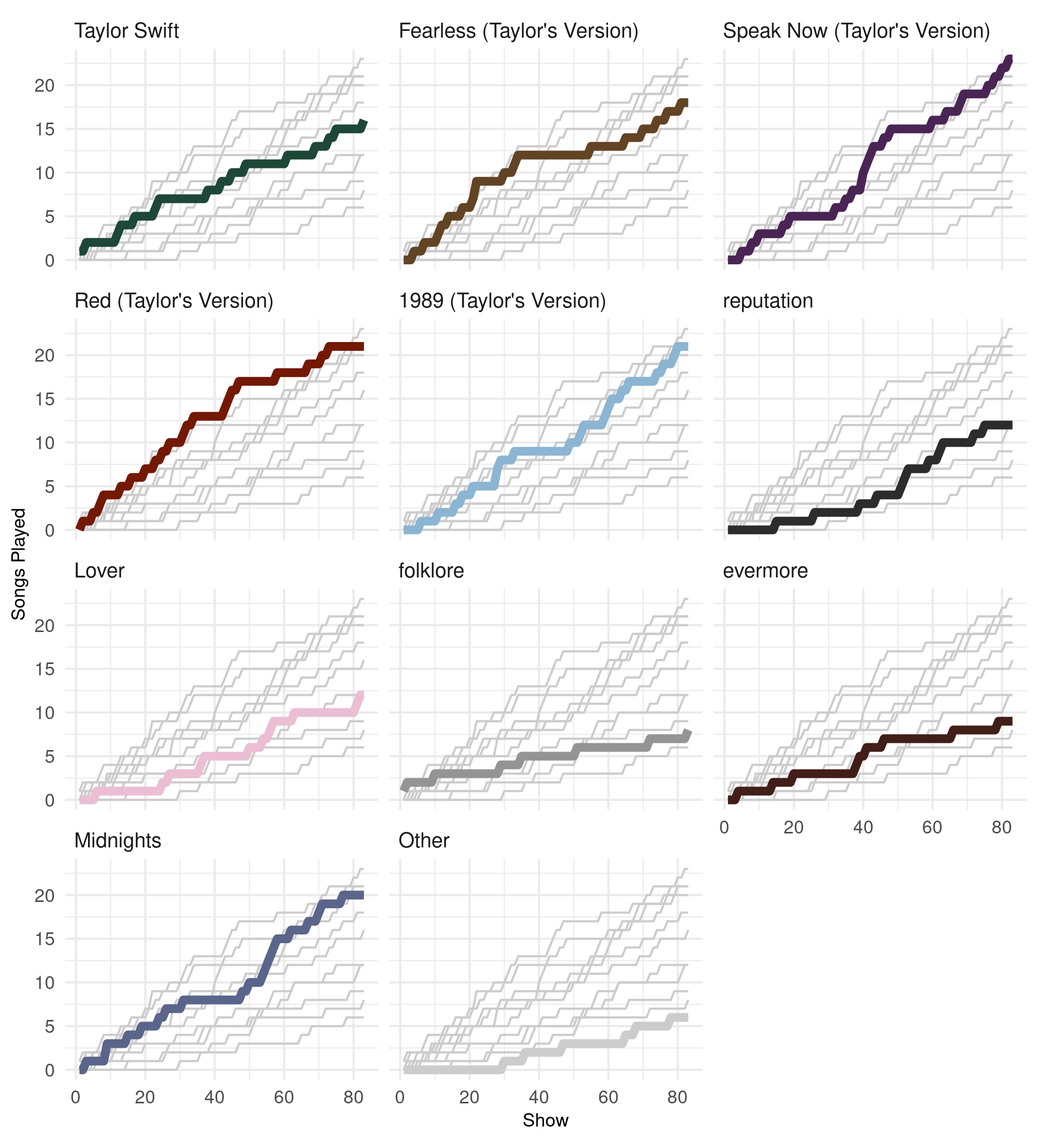
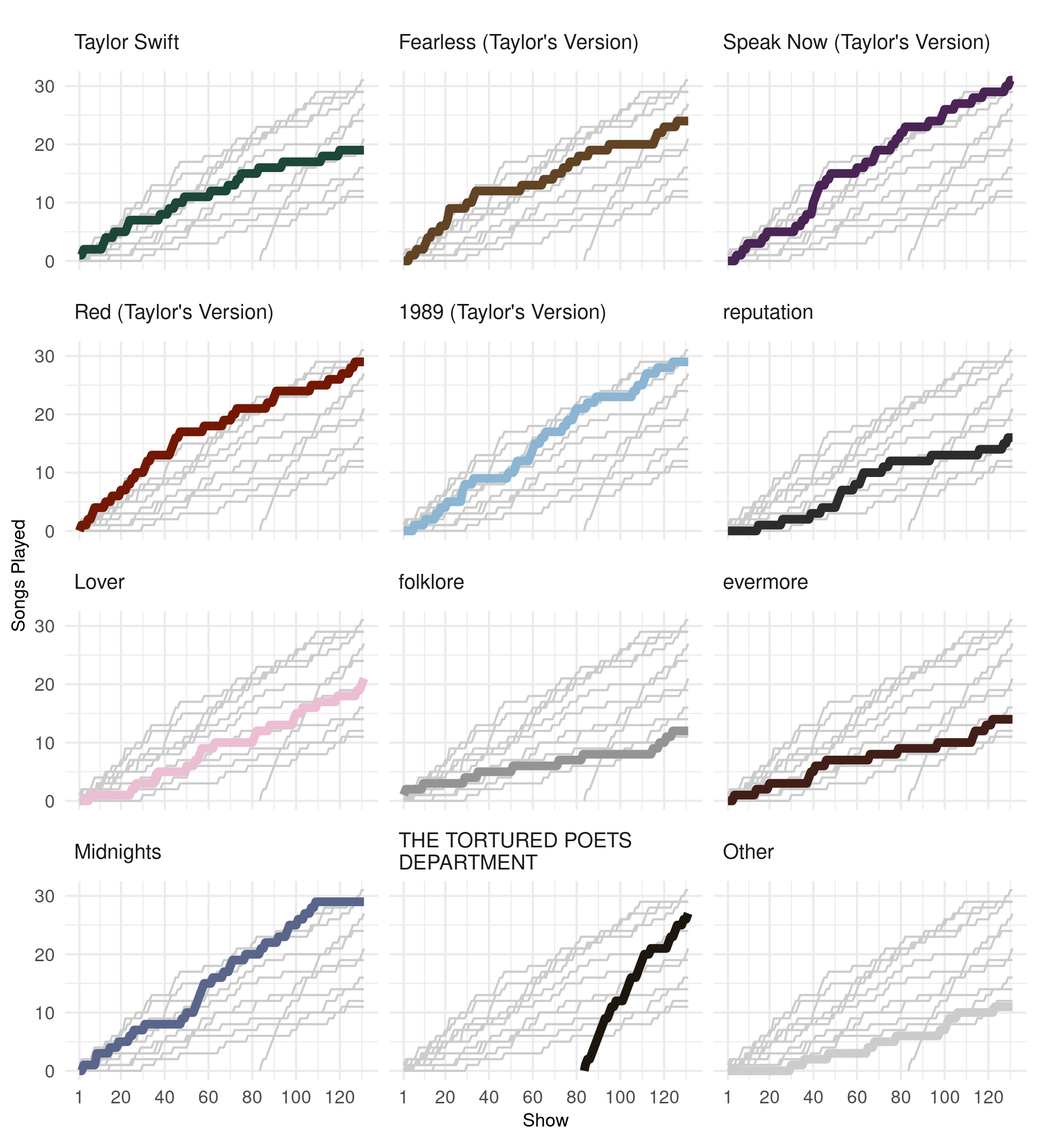
Deploying to gh-pages from @ wjakethompson/taylor@10f4a2b798cae86196019adc110b168211de15b0 🚀

diff --git a/dev/articles/taylor.html b/dev/articles/taylor.html
@@ -197,7 +197,7 @@ also includes information on any additional songs that were performed as
 mashups and guests that Taylor brought out for a performance.</p>
 <div class="sourceCode" id="cb4"><pre class="downlit sourceCode r">
 <code class="sourceCode R"><span><span class="va">eras_tour_surprise</span></span>
-<span><span class="co">#&gt; <span style="color: #949494;"># A tibble: 166 × 9</span></span></span>
+<span><span class="co">#&gt; <span style="color: #949494;"># A tibble: 262 × 9</span></span></span>
 <span><span class="co">#&gt;    leg                date       city  night dress instrument song  mashup guest</span></span>
 <span><span class="co">#&gt;    <span style="color: #949494; font-style: italic;">&lt;chr&gt;</span>              <span style="color: #949494; font-style: italic;">&lt;date&gt;</span>     <span style="color: #949494; font-style: italic;">&lt;chr&gt;</span> <span style="color: #949494; font-style: italic;">&lt;int&gt;</span> <span style="color: #949494; font-style: italic;">&lt;chr&gt;</span> <span style="color: #949494; font-style: italic;">&lt;chr&gt;</span>      <span style="color: #949494; font-style: italic;">&lt;chr&gt;</span> <span style="color: #949494; font-style: italic;">&lt;chr&gt;</span>  <span style="color: #949494; font-style: italic;">&lt;chr&gt;</span></span></span>
 <span><span class="co">#&gt; <span style="color: #BCBCBC;"> 1</span> North America (Le… 2023-03-17 Glen…     1 red   guitar     mirr… <span style="color: #BB0000;">NA</span>     <span style="color: #BB0000;">NA</span>   </span></span>
@@ -210,7 +210,7 @@ mashups and guests that Taylor brought out for a performance.</p>
 <span><span class="co">#&gt; <span style="color: #BCBCBC;"> 8</span> North America (Le… 2023-03-25 Las …     2 green piano      Whit… <span style="color: #BB0000;">NA</span>     <span style="color: #BB0000;">NA</span>   </span></span>
 <span><span class="co">#&gt; <span style="color: #BCBCBC;"> 9</span> North America (Le… 2023-03-31 Arli…     1 green guitar     Sad … <span style="color: #BB0000;">NA</span>     <span style="color: #BB0000;">NA</span>   </span></span>
 <span><span class="co">#&gt; <span style="color: #BCBCBC;">10</span> North America (Le… 2023-03-31 Arli…     1 green piano      Ours… <span style="color: #BB0000;">NA</span>     <span style="color: #BB0000;">NA</span>   </span></span>
-<span><span class="co">#&gt; <span style="color: #949494;"># ℹ 156 more rows</span></span></span></code></pre></div>
+<span><span class="co">#&gt; <span style="color: #949494;"># ℹ 252 more rows</span></span></span></code></pre></div>
 </div>
 <div class="section level2">
 <h2 id="just-another-picture-to-burn">Just another picture to burn<a class="anchor" aria-label="anchor" href="#just-another-picture-to-burn"></a>
@@ -267,13 +267,16 @@ Plot code
 <span><span class="kw"><a href="https://rdrr.io/r/base/library.html" class="external-link">library</a></span><span class="op">(</span><span class="va"><a href="https://tidyr.tidyverse.org" class="external-link">tidyr</a></span><span class="op">)</span></span>
 <span><span class="kw"><a href="https://rdrr.io/r/base/library.html" class="external-link">library</a></span><span class="op">(</span><span class="va"><a href="https://ggplot2.tidyverse.org" class="external-link">ggplot2</a></span><span class="op">)</span></span>
 <span></span>
+<span><span class="va">leg_labels</span> <span class="op">&lt;-</span> <span class="fu"><a href="https://rdrr.io/r/base/unique.html" class="external-link">unique</a></span><span class="op">(</span><span class="va">eras_tour_surprise</span><span class="op">$</span><span class="va">leg</span><span class="op">)</span></span>
+<span><span class="va">leg_labels</span> <span class="op">&lt;-</span> <span class="fu"><a href="https://rdrr.io/r/base/grep.html" class="external-link">gsub</a></span><span class="op">(</span><span class="st">"America \\(Leg 1\\)"</span>, <span class="st">"America\n(Leg 1)"</span>, <span class="va">leg_labels</span><span class="op">)</span></span>
+<span><span class="va">leg_labels</span> <span class="op">&lt;-</span> <span class="fu"><a href="https://rdrr.io/r/base/grep.html" class="external-link">gsub</a></span><span class="op">(</span><span class="st">"South America"</span>, <span class="st">"South\nAmerica"</span>, <span class="va">leg_labels</span><span class="op">)</span></span>
+<span><span class="va">leg_labels</span> <span class="op">&lt;-</span> <span class="fu"><a href="https://rdrr.io/r/base/grep.html" class="external-link">gsub</a></span><span class="op">(</span><span class="st">"Asia-Pacific"</span>, <span class="st">"Asia-\nPacific"</span>, <span class="va">leg_labels</span><span class="op">)</span></span>
+<span></span>
 <span><span class="va">surprise_song_count</span> <span class="op">&lt;-</span> <span class="va">eras_tour_surprise</span> <span class="op"><a href="https://magrittr.tidyverse.org/reference/pipe.html" class="external-link">%&gt;%</a></span></span>
 <span>  <span class="fu"><a href="https://tidyr.tidyverse.org/reference/nest.html" class="external-link">nest</a></span><span class="op">(</span>dat <span class="op">=</span> <span class="op">-</span><span class="fu"><a href="https://rdrr.io/r/base/c.html" class="external-link">c</a></span><span class="op">(</span><span class="va">leg</span>, <span class="va">date</span>, <span class="va">city</span>, <span class="va">night</span><span class="op">)</span><span class="op">)</span> <span class="op"><a href="https://magrittr.tidyverse.org/reference/pipe.html" class="external-link">%&gt;%</a></span></span>
 <span>  <span class="fu"><a href="https://dplyr.tidyverse.org/reference/arrange.html" class="external-link">arrange</a></span><span class="op">(</span><span class="va">date</span><span class="op">)</span> <span class="op"><a href="https://magrittr.tidyverse.org/reference/pipe.html" class="external-link">%&gt;%</a></span></span>
 <span>  <span class="fu"><a href="https://dplyr.tidyverse.org/reference/mutate.html" class="external-link">mutate</a></span><span class="op">(</span>leg <span class="op">=</span> <span class="fu"><a href="https://rdrr.io/r/base/factor.html" class="external-link">factor</a></span><span class="op">(</span><span class="va">leg</span>, levels <span class="op">=</span> <span class="fu"><a href="https://rdrr.io/r/base/unique.html" class="external-link">unique</a></span><span class="op">(</span><span class="va">eras_tour_surprise</span><span class="op">$</span><span class="va">leg</span><span class="op">)</span>,</span>
-<span>                      labels <span class="op">=</span> <span class="fu"><a href="https://rdrr.io/r/base/c.html" class="external-link">c</a></span><span class="op">(</span><span class="st">"North America\n(Leg 1)"</span>,</span>
-<span>                                 <span class="st">"South\nAmerica"</span>,</span>
-<span>                                 <span class="st">"Asia-Pacific"</span><span class="op">)</span><span class="op">)</span><span class="op">)</span> <span class="op"><a href="https://magrittr.tidyverse.org/reference/pipe.html" class="external-link">%&gt;%</a></span></span>
+<span>                      labels <span class="op">=</span> <span class="va">leg_labels</span><span class="op">)</span><span class="op">)</span> <span class="op"><a href="https://magrittr.tidyverse.org/reference/pipe.html" class="external-link">%&gt;%</a></span></span>
 <span>  <span class="fu"><a href="https://dplyr.tidyverse.org/reference/mutate.html" class="external-link">mutate</a></span><span class="op">(</span>show_number <span class="op">=</span> <span class="fu"><a href="https://rdrr.io/r/base/seq.html" class="external-link">seq_len</a></span><span class="op">(</span><span class="fu"><a href="https://dplyr.tidyverse.org/reference/context.html" class="external-link">n</a></span><span class="op">(</span><span class="op">)</span><span class="op">)</span>, .after <span class="op">=</span> <span class="va">night</span><span class="op">)</span> <span class="op"><a href="https://magrittr.tidyverse.org/reference/pipe.html" class="external-link">%&gt;%</a></span></span>
 <span>  <span class="fu"><a href="https://tidyr.tidyverse.org/reference/unnest.html" class="external-link">unnest</a></span><span class="op">(</span><span class="va">dat</span><span class="op">)</span> <span class="op"><a href="https://magrittr.tidyverse.org/reference/pipe.html" class="external-link">%&gt;%</a></span></span>
 <span>  <span class="fu"><a href="https://dplyr.tidyverse.org/reference/mutate-joins.html" class="external-link">left_join</a></span><span class="op">(</span><span class="fu"><a href="https://dplyr.tidyverse.org/reference/distinct.html" class="external-link">distinct</a></span><span class="op">(</span><span class="va">taylor_album_songs</span>, <span class="va">track_name</span>, <span class="va">album_name</span><span class="op">)</span>,</span>
@@ -284,18 +287,31 @@ Plot code
 <span>  <span class="fu"><a href="https://dplyr.tidyverse.org/reference/mutate.html" class="external-link">mutate</a></span><span class="op">(</span>n <span class="op">=</span> <span class="fu"><a href="https://tidyr.tidyverse.org/reference/replace_na.html" class="external-link">replace_na</a></span><span class="op">(</span><span class="va">n</span>, <span class="fl">0</span><span class="op">)</span><span class="op">)</span> <span class="op"><a href="https://magrittr.tidyverse.org/reference/pipe.html" class="external-link">%&gt;%</a></span></span>
 <span>  <span class="fu"><a href="https://dplyr.tidyverse.org/reference/arrange.html" class="external-link">arrange</a></span><span class="op">(</span><span class="va">album_name</span>, <span class="va">date</span>, <span class="va">night</span><span class="op">)</span> <span class="op"><a href="https://magrittr.tidyverse.org/reference/pipe.html" class="external-link">%&gt;%</a></span></span>
 <span>  <span class="fu"><a href="https://dplyr.tidyverse.org/reference/mutate.html" class="external-link">mutate</a></span><span class="op">(</span>surprise_count <span class="op">=</span> <span class="fu"><a href="https://rdrr.io/r/base/cumsum.html" class="external-link">cumsum</a></span><span class="op">(</span><span class="va">n</span><span class="op">)</span>, .by <span class="op">=</span> <span class="va">album_name</span><span class="op">)</span> <span class="op"><a href="https://magrittr.tidyverse.org/reference/pipe.html" class="external-link">%&gt;%</a></span></span>
+<span>  <span class="fu"><a href="https://dplyr.tidyverse.org/reference/mutate-joins.html" class="external-link">left_join</a></span><span class="op">(</span><span class="fu"><a href="https://dplyr.tidyverse.org/reference/select.html" class="external-link">select</a></span><span class="op">(</span><span class="va">taylor_albums</span>, <span class="va">album_name</span>, <span class="va">album_release</span><span class="op">)</span>,</span>
+<span>            by <span class="op">=</span> <span class="st">"album_name"</span><span class="op">)</span> <span class="op"><a href="https://magrittr.tidyverse.org/reference/pipe.html" class="external-link">%&gt;%</a></span></span>
+<span>  <span class="fu"><a href="https://dplyr.tidyverse.org/reference/mutate.html" class="external-link">mutate</a></span><span class="op">(</span>surprise_count <span class="op">=</span> <span class="fu"><a href="https://dplyr.tidyverse.org/reference/case_when.html" class="external-link">case_when</a></span><span class="op">(</span></span>
+<span>    <span class="va">album_name</span> <span class="op">==</span> <span class="st">"THE TORTURED POETS DEPARTMENT"</span> <span class="op">&amp;</span></span>
+<span>      <span class="va">date</span> <span class="op">&lt;</span> <span class="va">album_release</span> <span class="op">~</span> <span class="cn">NA_integer_</span>,</span>
+<span>    .default <span class="op">=</span> <span class="va">surprise_count</span></span>
+<span>  <span class="op">)</span><span class="op">)</span> <span class="op"><a href="https://magrittr.tidyverse.org/reference/pipe.html" class="external-link">%&gt;%</a></span></span>
+<span>  <span class="fu"><a href="https://tibble.tidyverse.org/reference/add_row.html" class="external-link">add_row</a></span><span class="op">(</span>leg <span class="op">=</span> <span class="fu"><a href="https://rdrr.io/r/base/factor.html" class="external-link">factor</a></span><span class="op">(</span><span class="st">"Europe"</span><span class="op">)</span>, album_name <span class="op">=</span> <span class="st">"THE TORTURED POETS DEPARTMENT"</span>,</span>
+<span>          show_number <span class="op">=</span> <span class="fl">83.5</span>, surprise_count <span class="op">=</span> <span class="fl">0L</span><span class="op">)</span> <span class="op"><a href="https://magrittr.tidyverse.org/reference/pipe.html" class="external-link">%&gt;%</a></span></span>
 <span>  <span class="fu"><a href="https://dplyr.tidyverse.org/reference/mutate.html" class="external-link">mutate</a></span><span class="op">(</span>album_name <span class="op">=</span> <span class="fu"><a href="https://tidyr.tidyverse.org/reference/replace_na.html" class="external-link">replace_na</a></span><span class="op">(</span><span class="va">album_name</span>, <span class="st">"Other"</span><span class="op">)</span>,</span>
-<span>         album_name <span class="op">=</span> <span class="fu"><a href="https://rdrr.io/r/base/factor.html" class="external-link">factor</a></span><span class="op">(</span><span class="va">album_name</span>, <span class="fu"><a href="https://rdrr.io/r/base/c.html" class="external-link">c</a></span><span class="op">(</span><span class="va">album_levels</span>, <span class="st">"Other"</span><span class="op">)</span><span class="op">)</span>,</span>
-<span>         album_group <span class="op">=</span> <span class="va">album_name</span><span class="op">)</span></span>
+<span>         album_group <span class="op">=</span> <span class="va">album_name</span>,</span>
+<span>         album_name <span class="op">=</span> <span class="fu"><a href="https://rdrr.io/r/base/factor.html" class="external-link">factor</a></span><span class="op">(</span><span class="va">album_name</span>, <span class="fu"><a href="https://rdrr.io/r/base/c.html" class="external-link">c</a></span><span class="op">(</span><span class="va">album_levels</span>, <span class="st">"Other"</span><span class="op">)</span>,</span>
+<span>                             labels <span class="op">=</span> <span class="fu"><a href="https://rdrr.io/r/base/c.html" class="external-link">c</a></span><span class="op">(</span><span class="fu"><a href="https://rdrr.io/r/base/grep.html" class="external-link">gsub</a></span><span class="op">(</span><span class="st">"POETS DEPARTMENT"</span>,</span>
+<span>                                             <span class="st">"POETS\nDEPARTMENT"</span>,</span>
+<span>                                             <span class="va">album_levels</span><span class="op">)</span>, <span class="st">"Other"</span><span class="op">)</span><span class="op">)</span><span class="op">)</span></span>
 <span></span>
 <span><span class="fu"><a href="https://ggplot2.tidyverse.org/reference/ggplot.html" class="external-link">ggplot</a></span><span class="op">(</span><span class="va">surprise_song_count</span><span class="op">)</span> <span class="op">+</span></span>
 <span>  <span class="fu"><a href="https://ggplot2.tidyverse.org/reference/facet_wrap.html" class="external-link">facet_wrap</a></span><span class="op">(</span><span class="op">~</span> <span class="va">album_name</span>, ncol <span class="op">=</span> <span class="fl">3</span><span class="op">)</span> <span class="op">+</span></span>
 <span>  <span class="fu"><a href="https://ggplot2.tidyverse.org/reference/geom_path.html" class="external-link">geom_line</a></span><span class="op">(</span>data <span class="op">=</span> <span class="op">~</span><span class="fu"><a href="https://dplyr.tidyverse.org/reference/select.html" class="external-link">select</a></span><span class="op">(</span><span class="va">.x</span>, <span class="op">-</span><span class="va">album_name</span><span class="op">)</span>,</span>
 <span>            <span class="fu"><a href="https://ggplot2.tidyverse.org/reference/aes.html" class="external-link">aes</a></span><span class="op">(</span>x <span class="op">=</span> <span class="va">show_number</span>, y <span class="op">=</span> <span class="va">surprise_count</span>, group <span class="op">=</span> <span class="va">album_group</span><span class="op">)</span>,</span>
 <span>            color <span class="op">=</span> <span class="st">"grey80"</span>, na.rm <span class="op">=</span> <span class="cn">TRUE</span><span class="op">)</span> <span class="op">+</span></span>
-<span>  <span class="fu"><a href="https://ggplot2.tidyverse.org/reference/geom_path.html" class="external-link">geom_line</a></span><span class="op">(</span><span class="fu"><a href="https://ggplot2.tidyverse.org/reference/aes.html" class="external-link">aes</a></span><span class="op">(</span>x <span class="op">=</span> <span class="va">show_number</span>, y <span class="op">=</span> <span class="va">surprise_count</span>, color <span class="op">=</span> <span class="va">album_name</span><span class="op">)</span>,</span>
+<span>  <span class="fu"><a href="https://ggplot2.tidyverse.org/reference/geom_path.html" class="external-link">geom_line</a></span><span class="op">(</span><span class="fu"><a href="https://ggplot2.tidyverse.org/reference/aes.html" class="external-link">aes</a></span><span class="op">(</span>x <span class="op">=</span> <span class="va">show_number</span>, y <span class="op">=</span> <span class="va">surprise_count</span>, color <span class="op">=</span> <span class="va">album_group</span><span class="op">)</span>,</span>
 <span>            show.legend <span class="op">=</span> <span class="cn">FALSE</span>, linewidth <span class="op">=</span> <span class="fl">2</span>, na.rm <span class="op">=</span> <span class="cn">TRUE</span><span class="op">)</span> <span class="op">+</span></span>
 <span>  <span class="fu"><a href="../reference/scale_albums.html">scale_color_albums</a></span><span class="op">(</span>na.value <span class="op">=</span> <span class="st">"grey80"</span><span class="op">)</span> <span class="op">+</span></span>
+<span>  <span class="fu"><a href="https://ggplot2.tidyverse.org/reference/scale_continuous.html" class="external-link">scale_x_continuous</a></span><span class="op">(</span>breaks <span class="op">=</span> <span class="fu"><a href="https://rdrr.io/r/base/c.html" class="external-link">c</a></span><span class="op">(</span><span class="fl">1</span>, <span class="fu"><a href="https://rdrr.io/r/base/seq.html" class="external-link">seq</a></span><span class="op">(</span><span class="fl">20</span>, <span class="fl">500</span>, <span class="fl">20</span><span class="op">)</span><span class="op">)</span><span class="op">)</span> <span class="op">+</span></span>
 <span>  <span class="fu"><a href="https://ggplot2.tidyverse.org/reference/labs.html" class="external-link">labs</a></span><span class="op">(</span>x <span class="op">=</span> <span class="st">"Show"</span>, y <span class="op">=</span> <span class="st">"Songs Played"</span><span class="op">)</span> <span class="op">+</span></span>
 <span>  <span class="fu"><a href="https://ggplot2.tidyverse.org/reference/ggtheme.html" class="external-link">theme_minimal</a></span><span class="op">(</span><span class="op">)</span> <span class="op">+</span></span>
 <span>  <span class="fu"><a href="https://ggplot2.tidyverse.org/reference/theme.html" class="external-link">theme</a></span><span class="op">(</span>strip.text.x <span class="op">=</span> <span class="fu"><a href="https://ggplot2.tidyverse.org/reference/element.html" class="external-link">element_text</a></span><span class="op">(</span>hjust <span class="op">=</span> <span class="fl">0</span>, size <span class="op">=</span> <span class="fl">10</span><span class="op">)</span>,</span>
@@ -312,7 +328,8 @@ see <code><a href="../articles/plotting.html">vignette("plotting")</a></code>.</
 Plot code
 </summary><div class="sourceCode" id="cb8"><pre class="downlit sourceCode r">
 <code class="sourceCode R"><span><span class="va">missing_firsts</span> <span class="op">&lt;-</span> <span class="fu"><a href="https://tibble.tidyverse.org/reference/tibble.html" class="external-link">tibble</a></span><span class="op">(</span>date <span class="op">=</span> <span class="fu"><a href="https://rdrr.io/r/base/as.Date.html" class="external-link">as.Date</a></span><span class="op">(</span><span class="fu"><a href="https://rdrr.io/r/base/c.html" class="external-link">c</a></span><span class="op">(</span><span class="st">"2023-11-01"</span>,</span>
-<span>                                          <span class="st">"2024-02-01"</span><span class="op">)</span><span class="op">)</span><span class="op">)</span></span>
+<span>                                          <span class="st">"2024-02-01"</span>,</span>
+<span>                                          <span class="st">"2024-05-01"</span><span class="op">)</span><span class="op">)</span><span class="op">)</span></span>
 <span><span class="va">day_ones</span> <span class="op">&lt;-</span> <span class="va">surprise_song_count</span> <span class="op"><a href="https://magrittr.tidyverse.org/reference/pipe.html" class="external-link">%&gt;%</a></span></span>
 <span>  <span class="fu"><a href="https://dplyr.tidyverse.org/reference/slice.html" class="external-link">slice_min</a></span><span class="op">(</span><span class="va">date</span>, by <span class="op">=</span> <span class="fu"><a href="https://rdrr.io/r/base/c.html" class="external-link">c</a></span><span class="op">(</span><span class="va">leg</span>, <span class="va">album_name</span><span class="op">)</span><span class="op">)</span> <span class="op"><a href="https://magrittr.tidyverse.org/reference/pipe.html" class="external-link">%&gt;%</a></span></span>
 <span>  <span class="fu"><a href="https://dplyr.tidyverse.org/reference/select.html" class="external-link">select</a></span><span class="op">(</span><span class="va">leg</span>, <span class="va">date</span>, <span class="va">album_name</span><span class="op">)</span> <span class="op"><a href="https://magrittr.tidyverse.org/reference/pipe.html" class="external-link">%&gt;%</a></span></span>
@@ -332,9 +349,9 @@ Plot code
 <span>            color <span class="op">=</span> <span class="st">"grey80"</span>, na.rm <span class="op">=</span> <span class="cn">TRUE</span><span class="op">)</span> <span class="op">+</span></span>
 <span>  <span class="fu"><a href="https://ggplot2.tidyverse.org/reference/geom_path.html" class="external-link">geom_line</a></span><span class="op">(</span>data <span class="op">=</span> <span class="op">~</span><span class="fu"><a href="https://dplyr.tidyverse.org/reference/filter.html" class="external-link">filter</a></span><span class="op">(</span><span class="va">.x</span>, <span class="va">album_name</span> <span class="op">==</span> <span class="st">"1989 (Taylor's Version)"</span><span class="op">)</span>,</span>
 <span>            <span class="fu"><a href="https://ggplot2.tidyverse.org/reference/aes.html" class="external-link">aes</a></span><span class="op">(</span>x <span class="op">=</span> <span class="va">date</span>, y <span class="op">=</span> <span class="va">surprise_count</span>, color <span class="op">=</span> <span class="va">album_name</span><span class="op">)</span>,</span>
-<span>            show.legend <span class="op">=</span> <span class="cn">FALSE</span>, size <span class="op">=</span> <span class="fl">2</span>, na.rm <span class="op">=</span> <span class="cn">TRUE</span><span class="op">)</span> <span class="op">+</span></span>
+<span>            show.legend <span class="op">=</span> <span class="cn">FALSE</span>, linewidth <span class="op">=</span> <span class="fl">2</span>, na.rm <span class="op">=</span> <span class="cn">TRUE</span><span class="op">)</span> <span class="op">+</span></span>
 <span>  <span class="fu"><a href="../reference/scale_albums.html">scale_color_albums</a></span><span class="op">(</span><span class="op">)</span> <span class="op">+</span></span>
-<span>  <span class="fu"><a href="https://ggplot2.tidyverse.org/reference/scale_date.html" class="external-link">scale_x_date</a></span><span class="op">(</span>breaks <span class="op">=</span> <span class="st">"month"</span>, date_labels <span class="op">=</span> <span class="st">"%b %Y"</span>, expand <span class="op">=</span> <span class="fu"><a href="https://rdrr.io/r/base/c.html" class="external-link">c</a></span><span class="op">(</span><span class="fl">.02</span>, <span class="fl">.02</span><span class="op">)</span><span class="op">)</span> <span class="op">+</span></span>
+<span>  <span class="fu"><a href="https://ggplot2.tidyverse.org/reference/scale_date.html" class="external-link">scale_x_date</a></span><span class="op">(</span>breaks <span class="op">=</span> <span class="st">"month"</span>, date_labels <span class="op">=</span> <span class="st">"%b\n%Y"</span>, expand <span class="op">=</span> <span class="fu"><a href="https://rdrr.io/r/base/c.html" class="external-link">c</a></span><span class="op">(</span><span class="fl">.02</span>, <span class="fl">.02</span><span class="op">)</span><span class="op">)</span> <span class="op">+</span></span>
 <span>  <span class="fu"><a href="https://ggplot2.tidyverse.org/reference/labs.html" class="external-link">labs</a></span><span class="op">(</span>x <span class="op">=</span> <span class="cn">NULL</span>, y <span class="op">=</span> <span class="st">"Songs Played"</span><span class="op">)</span> <span class="op">+</span></span>
 <span>  <span class="fu"><a href="https://ggplot2.tidyverse.org/reference/ggtheme.html" class="external-link">theme_minimal</a></span><span class="op">(</span><span class="op">)</span> <span class="op">+</span></span>
 <span>  <span class="fu"><a href="https://ggplot2.tidyverse.org/reference/theme.html" class="external-link">theme</a></span><span class="op">(</span>strip.text.x <span class="op">=</span> <span class="fu"><a href="https://ggplot2.tidyverse.org/reference/element.html" class="external-link">element_text</a></span><span class="op">(</span>hjust <span class="op">=</span> <span class="fl">0</span>, size <span class="op">=</span> <span class="fl">10</span><span class="op">)</span>,</span>

diff --git a/dev/index.html b/dev/index.html
@@ -96,10 +96,12 @@
 <!-- badges: start -->
 
 <div class="section level2">
-<h2 id="overview-">Overview <img src="reference/figures/logo.png" align="right" width="120"><a class="anchor" aria-label="anchor" href="#overview-"></a>
+<h2 id="overview-">Overview <img src="reference/figures/logo.png" alt="Hex logo for the taylor R package" align="right" width="120"><a class="anchor" aria-label="anchor" href="#overview-"></a>
 </h2>
 <p>The goal of taylor is to provide easy access to a curated data set of Taylor Swift songs, including lyrics and audio characteristics. Data comes <a href="https://genius.com/artists/Taylor-swift" class="external-link">Genius</a> and the <a href="https://open.spotify.com/artist/06HL4z0CvFAxyc27GXpf02" class="external-link">Spotify API</a>.</p>
-<p><img src="https://media.giphy.com/media/2tg4k9pXNcGi7kZ9Pz/giphy.gif"></p>
+<figure><img src="https://media.giphy.com/media/2tg4k9pXNcGi7kZ9Pz/giphy.gif" alt="GIF of Taylor saying “yes”"><figcaption aria-hidden="true">
+GIF of Taylor saying “yes”
+</figcaption></figure>
 </div>
 <div class="section level2">
 <h2 id="installation">Installation<a class="anchor" aria-label="anchor" href="#installation"></a>

diff --git a/dev/reference/eras_tour_surprise.html b/dev/reference/eras_tour_surprise.html
@@ -71,7 +71,7 @@ through the first North American leg of the tour.</p>
 
     <div class="section level2">
     <h2 id="format">Format<a class="anchor" aria-label="anchor" href="#format"></a></h2>
-    <p>A <a href="https://tibble.tidyverse.org/reference/tibble-package.html" class="external-link">tibble</a> with 166
+    <p>A <a href="https://tibble.tidyverse.org/reference/tibble-package.html" class="external-link">tibble</a> with 262
 rows and 9 variables:</p><ul><li><p><code>leg</code>: The leg of the tour (e.g., North America, South America, etc.).</p></li>
 <li><p><code>date</code>: The date of the show in ISO 8601 format (yyyy-mm-dd).</p></li>
 <li><p><code>city</code>: The location of the show. For US shows, the location is the city
